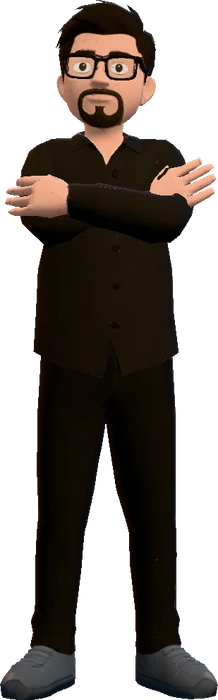
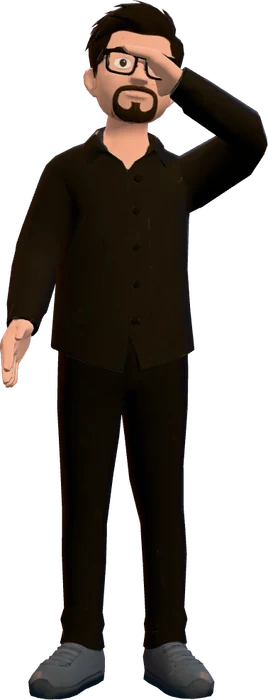
fix: supersample the dancer and use per-section posters
Render the 3D canvas at 3x with antialiasing and skip the post-processing composer when pixelation is off. This makes the live Chrome render match the high-resolution captures. Use a distinct initial-pose poster for hero, about, contact and about page instead of repeating the hero image.

diff --git a/src/components/dancer/dancerScene.js b/src/components/dancer/dancerScene.js
@@ -395,7 +395,7 @@ export async function createDancer({
     const renderer = new THREE.WebGLRenderer({
         canvas,
         alpha: true,
-        antialias: false,
+        antialias: true,
         powerPreference: "high-performance",
         preserveDrawingBuffer: captureMode,
     });
@@ -404,23 +404,29 @@ export async function createDancer({
     renderer.toneMapping = THREE.NeutralToneMapping;
     renderer.toneMappingExposure = 1.12;
 
-    const composer = new EffectComposer(renderer);
-    const renderPass = new RenderPass(scene, camera);
+    const usePostProcessing = ENABLE_PIXELATION;
+    let composer = null;
+    let renderPass = null;
+    let pixelatePass = null;
+    let outputPass = null;
 
-    const pixelatePass = ENABLE_PIXELATION
-        ? new ShaderPass(PixelateShader)
-        : null;
-
-    if (pixelatePass) {
+    if (usePostProcessing) {
+        composer = new EffectComposer(renderer);
+        renderPass = new RenderPass(scene, camera);
+        pixelatePass = new ShaderPass(PixelateShader);
         pixelatePass.uniforms.uPixelSize.value = 3;
         pixelatePass.uniforms.uVignette.value = 0.12;
+        outputPass = new OutputPass();
+
+        composer.addPass(renderPass);
+        composer.addPass(pixelatePass);
+        composer.addPass(outputPass);
     }
 
-    const outputPass = new OutputPass();
-
-    composer.addPass(renderPass);
-    if (pixelatePass) composer.addPass(pixelatePass);
-    composer.addPass(outputPass);
+    const renderFrame = () => {
+        if (composer) composer.render();
+        else renderer.render(scene, camera);
+    };
 
     const startSequence =
         START_SEQUENCE[variant] ?? 0;
@@ -482,15 +488,14 @@ export async function createDancer({
         const rect = host.getBoundingClientRect();
         const width = Math.max(1, rect.width);
         const height = Math.max(1, rect.height);
-        const maxRatio = captureMode ? 3 : 2;
-        const ratio = captureMode
-            ? maxRatio
-            : Math.min(window.devicePixelRatio || 1, maxRatio);
+        const ratio = 3;
 
         renderer.setPixelRatio(ratio);
         renderer.setSize(width, height, false);
-        composer.setPixelRatio(ratio);
-        composer.setSize(width, height);
+        if (composer) {
+            composer.setPixelRatio(ratio);
+            composer.setSize(width, height);
+        }
 
         camera.aspect = width / height;
 
@@ -680,7 +685,7 @@ export async function createDancer({
         lastTime = time;
 
         update(dt);
-        composer.render();
+        renderFrame();
         markReady();
 
         raf = requestAnimationFrame(loop);
@@ -756,7 +761,7 @@ export async function createDancer({
             // Reduced-motion scenes do not run a loop; repaint on drag.
             if (!running) {
                 update(0);
-                composer.render();
+                renderFrame();
             }
             return;
         }
@@ -778,7 +783,7 @@ export async function createDancer({
         if (reduced) {
             stop();
             update(0);
-            composer.render();
+            renderFrame();
         } else if (visible) {
             start();
         }
@@ -802,7 +807,7 @@ export async function createDancer({
         resize();
         if (ready && !running) {
             update(0);
-            composer.render();
+            renderFrame();
         }
     });
     resizeObserver.observe(host);
@@ -835,10 +840,10 @@ export async function createDancer({
 
     resize();
     update(0);
-    composer.render();
+    renderFrame();
     markReady();
 
-    if (!reduced) start();
+    if (!reduced && !captureMode) start();
 
     let destroyed = false;
 
@@ -869,10 +874,10 @@ export async function createDancer({
         scene.remove(dancer);
         dancer.remove(model);
 
-        renderPass.dispose?.();
+        renderPass?.dispose?.();
         pixelatePass?.dispose?.();
-        outputPass.dispose?.();
-        composer.dispose();
+        outputPass?.dispose?.();
+        composer?.dispose();
 
         renderer.dispose();
         try {

diff --git a/src/components/redesign/AboutPageContent.js b/src/components/redesign/AboutPageContent.js
@@ -59,7 +59,7 @@ export default function AboutPageContent({ lang, copy }) {
                             <DancerCanvas
                                 variant="aboutPage"
                                 label={copy.about.imageAlt}
-                                poster="/static/images/profile/about-poster.webp"
+                                poster="/static/images/profile/about-page-poster.webp"
                             />
                         </div>
                     </ParallaxY>
